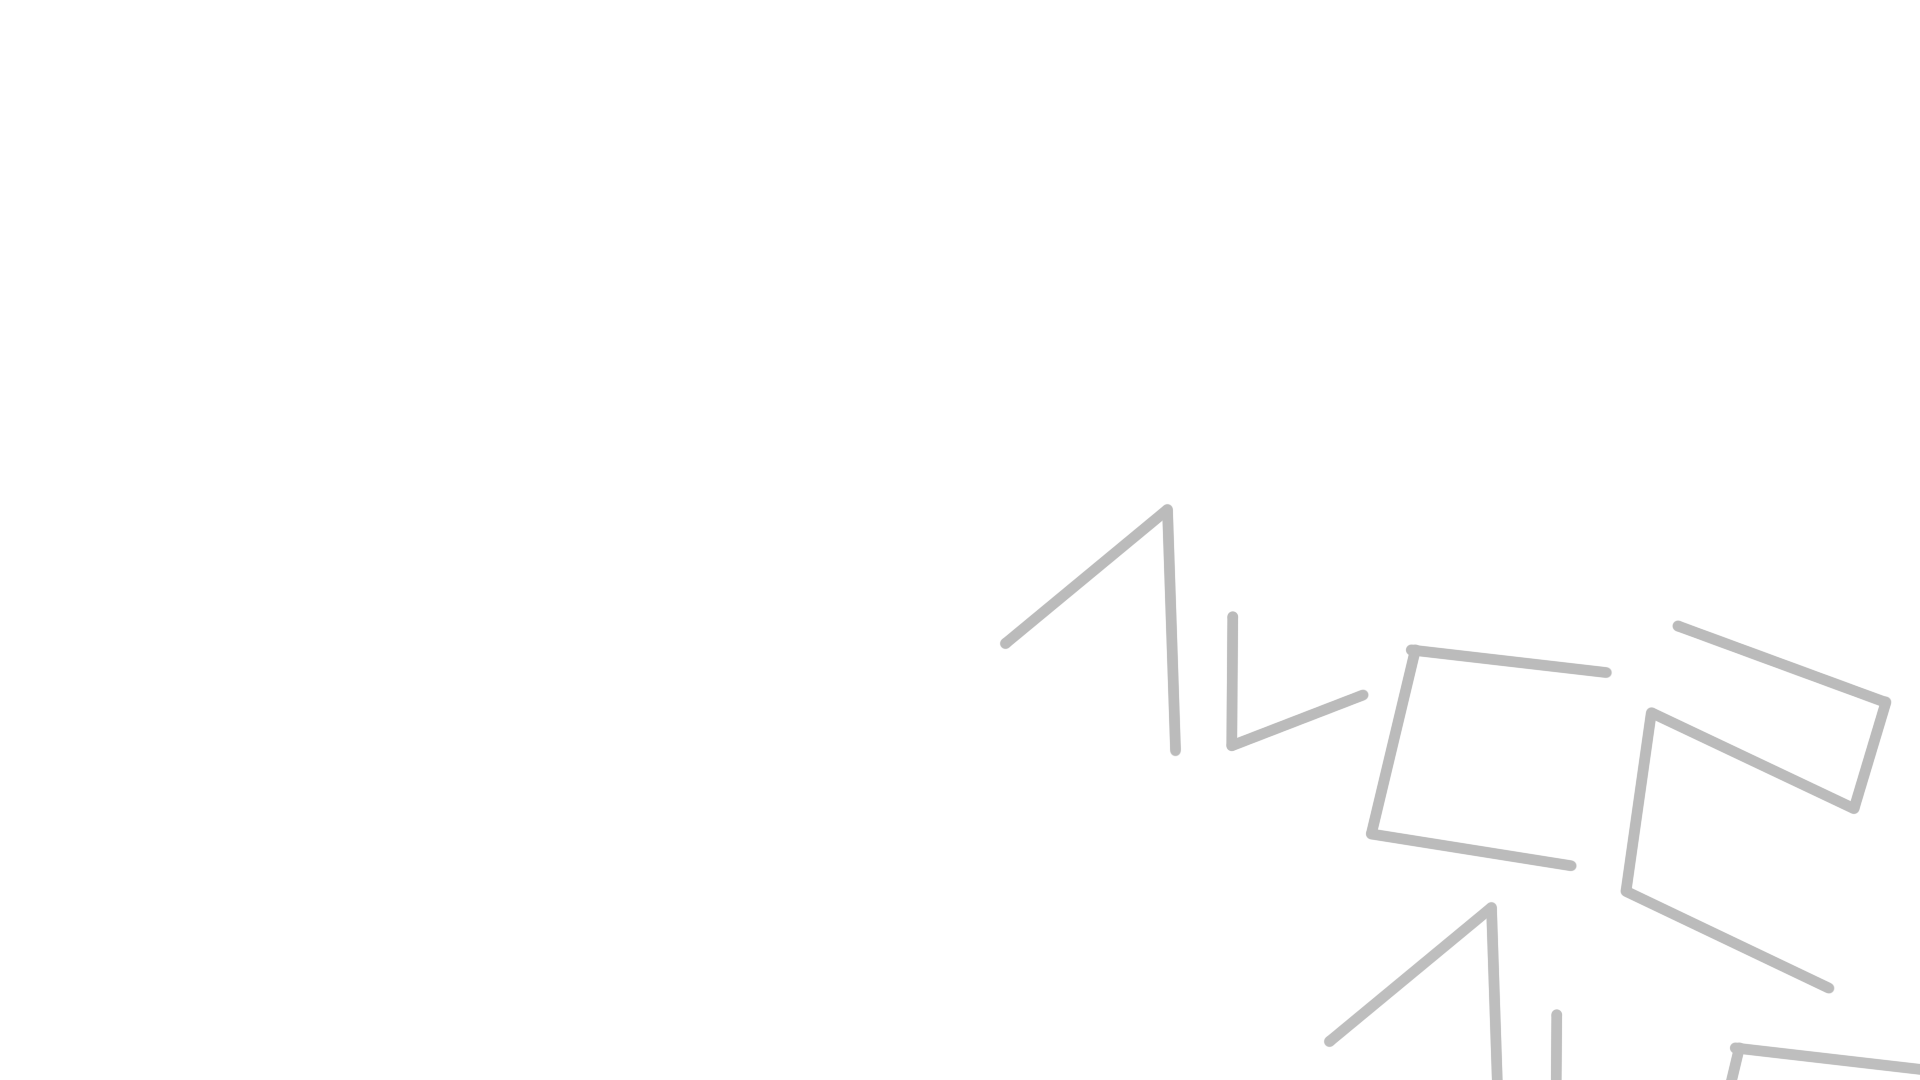
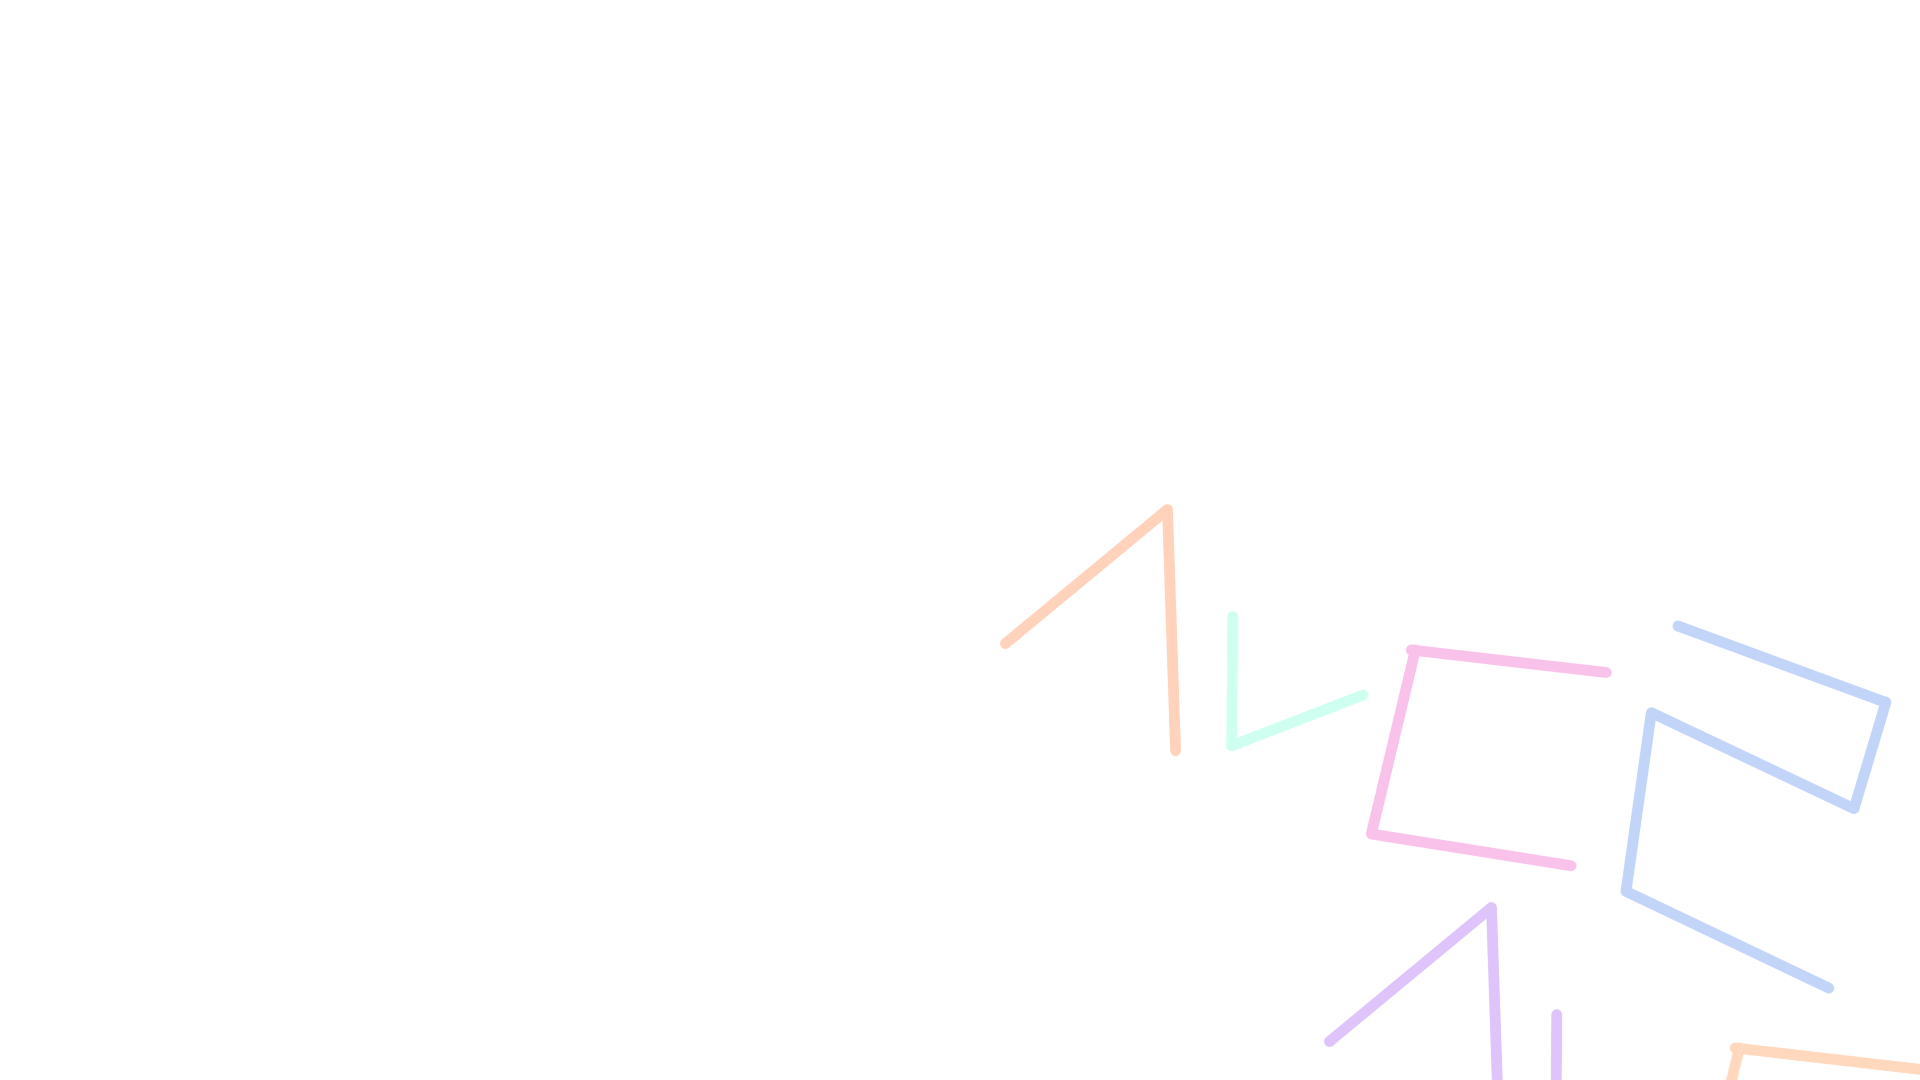
끝말잇기 완성

diff --git a/JS/last.js b/JS/last.js
@@ -4,11 +4,19 @@ let btn = document.getElementById('btn');
 let out = document.getElementById('out');
 let list = document.getElementById('list');
 let array = [];
-let startWord = document.getElementById('start-word');
-
+let startWord = ['기차', '사과', '윤석훈', '돼지', '노트북', '시나브로', '동아리' , '학교', '기숙사', '집'];
+let startSize = startWord.length;
+let size = Math.floor(Math.random() * startSize);
+let randomWord =  startWord[size];
+let randomSize = randomWord.length - 1;
+let start = document.getElementById('start-word');
+// let consonant = ['ㄱ','ㄴ','ㄷ','ㄹ','ㅁ','ㅂ','ㅅ','ㅇ','ㅈ','ㅊ','ㅋ','ㅌ','ㅍ','ㅎ','ㅏ','ㅑ','ㅓ','ㅕ','ㅗ','ㅛ','ㅜ','ㅠ','ㅡ','ㅣ','ㄲ','ㅃ','ㅉ','ㄸ'];
+start.innerHTML = randomWord;
 btn.addEventListener('click', function(e) {
    e.preventDefault();
-   if (word.textContent[word.textContent.length - 1] == input.value[0]) {
+   // if (word.textContent[word.textContent.length - 1] == input.value[0]) {
+      if (start.textContent[start.textContent.length - 1] == input.value[0]) {
+         
       for(i in array){
          console.log(i);
          if(array[i]==input.value)
@@ -16,9 +24,10 @@ btn.addEventListener('click', function(e) {
             Modal();
             return;
          }
-      }
+      }      
       alert('O');
-      word.textContent = input.value;
+      // word.textContent = input.value;
+      start.textContent = input.value;
       array.push(input.value);
       list.innerHTML+=input.value + " -> ";
       console.log(array);
@@ -28,7 +37,6 @@ btn.addEventListener('click', function(e) {
       alert('X');
       input.value = '';
       input.focus();
-
    }
 });
 let modal = document.getElementById("gameover");
@@ -38,4 +46,15 @@ let gameoverPost = document.querySelector(".gameover-input");
 function Modal() {
    modal.style.display="block";
 }
+
+function noSpace(obj){
+   let str_space = /\s/;
+   if(str_space.exec(obj.value)){
+      alert("공백을 사용하실 수 없습니다.");
+      obj.focus();
+      obj.value = obj.value.replace(' ', '');
+      return false;
+   }
+}
+
 

diff --git a/HTML/last.html b/HTML/last.html
@@ -8,14 +8,19 @@
 </head>
 <body>
     <form action="">
-        <div id="start-word">
+        
+        <h1 id="word">
+            <span style="color:#FFD2BB;">끝</span>
+            <span style="color:#CEFFF0 ;">말</span>
+            <span style="color:#F9C2EA ;">잇</span>
+            <span style="color:#C2D5F9 ;">기</span>
+        </h1>
+    <div id="start-word">
             
-        </div>
-        <h1 id="word">끝말잇기</h1>
-
+    </div>
         <div class="current-word">
             <!-- <input autocomplete="off" type="text" id="first-list" placeholder="처음 단어 입력"> -->
-            <input autocomplete="off" type="text" name="" id="in"  placeholder="입력..." class="gameover-input"/>
+            <input autocomplete="off" type="text" name="" id="in"  placeholder="입력..." class="gameover-input" onkeyup="noSpace(this);" onchange="noSpace(this);"/>
             <button id="btn">click</button>
             <span id="out"></span>
         </div>

diff --git a/CSS/last.css b/CSS/last.css
@@ -19,9 +19,10 @@ body{
     background-color: #ecebebf6;
     border: none;
     outline: none;
-    border-radius: 50px;
+    border-radius: 10px;
     text-indent: 20px;
     font-size: 1.5rem;
+    padding: 20px;
 }
 #first-list{
     width: 600px;
@@ -45,6 +46,13 @@ form{
 
 li{
     list-style: none;
+}
+#word{
+    font-size: 6rem;
+    margin: 0;
+    padding-top: 20px;
+    padding-bottom: 20px;
+    color: #BBB;
 }
 
 .parent-list{
@@ -122,4 +130,10 @@ li{
     flex-direction: column;
     height: 280px;
     justify-content: space-between;
+}
+#start-word{
+    font-size: 3rem;
+    font-weight: bold;
+    padding-top: 30px;
+    padding-bottom:130px;
 }
